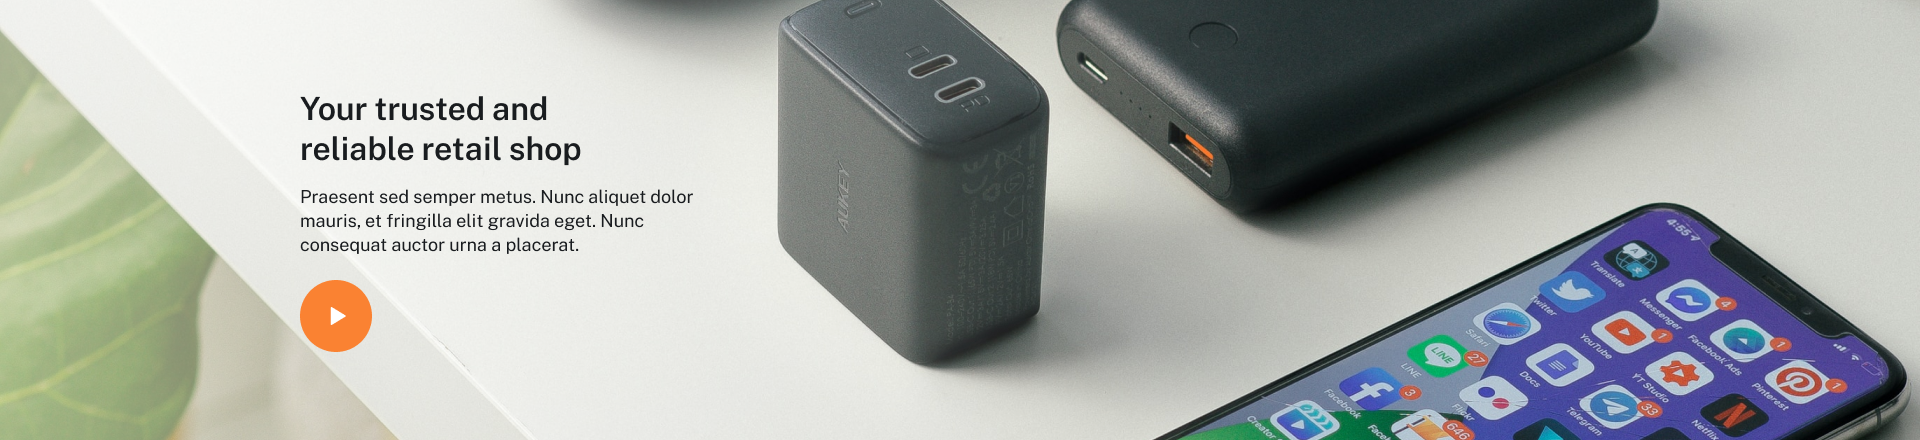
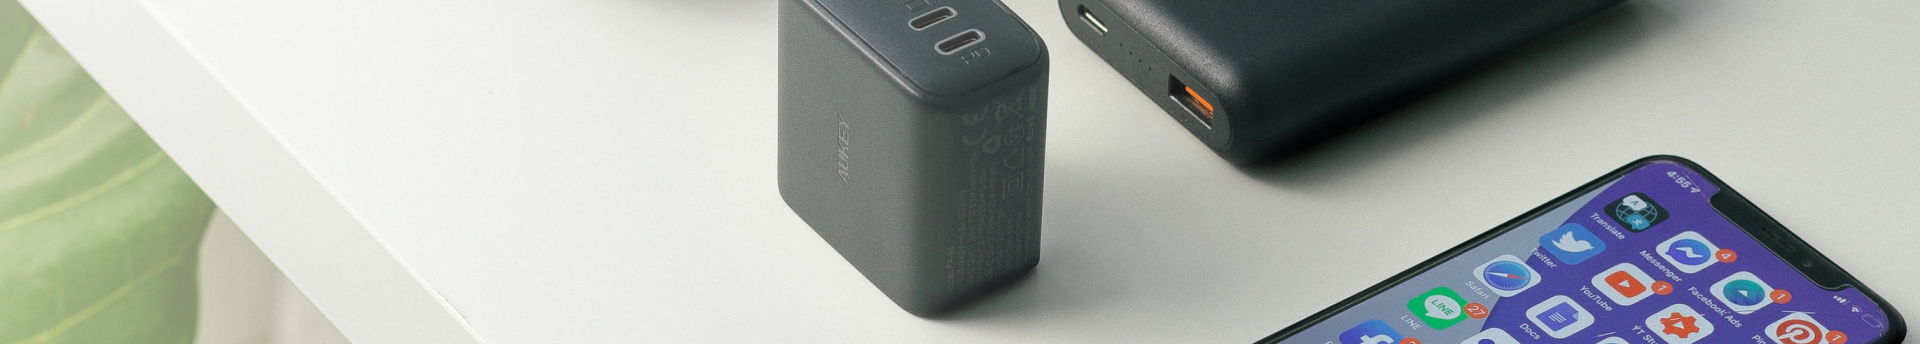
about cta complete

diff --git a/app/scss/pages/about/_banner.scss b/app/scss/pages/about/_banner.scss
@@ -1,0 +1,49 @@
+.banner-secton-02{
+    position: relative;
+    background-repeat: no-repeat;
+    background-size: cover;
+    background-position: center center ;
+    padding: 60px 0;
+    z-index: 1;
+    @media (min-width:575px) {
+        padding: 88px 0;
+    }
+    &::after{
+        @media (max-width:768px) {
+            position: absolute;
+            top: 0;
+            left: 0;
+            content: "";
+            width: 100%;
+            height: 100%;
+            background: rgba(255, 255, 255,.7);
+            z-index: -1;
+        }
+    }
+    .section-title{
+        .title{
+            margin-bottom: 16px;
+            font-weight: 600;
+            font-size: 32px;
+            line-height: 40px;
+            color: var(--bs-gray-900);
+        }
+        .text{
+            font-weight: normal;
+            font-size: 16px;
+            line-height: 1.333333333333333;
+            color: var(--bs-gray-900);
+            @media (min-width:575px) {
+            font-size: 18px;
+            }
+        }
+        .video-button{
+            margin-top: 24px;
+            .video-btn {
+                @media (max-width:768px) {
+                    margin: auto;
+                }
+            }
+        }
+    }
+}

diff --git a/app/scss/helpers/_animations.scss b/app/scss/helpers/_animations.scss
@@ -1,4 +1,39 @@
 @keyframes logoscroll {
-    0% { transform: translateX(0); }
-    100% { transform: translateX(calc(-220px * 7))}
+  0% {
+    transform: translateX(0);
   }
+
+  100% {
+    transform: translateX(calc(-220px * 7))
+  }
+}
+
+@keyframes sonarWave {
+  from {
+    opacity: 0.4;
+  }
+
+  to {
+    transform: scale(2);
+    opacity: 0;
+  }
+}
+
+.sonar-emitter {
+  position: relative;
+  z-index: 1;
+  &::after {
+    position: absolute;
+    top: 0;
+    left: 0;
+    width: 100%;
+    height: 100%;
+    border-radius: 50%;
+    content: "";
+    background-color: var(--bs-primary-500);
+    z-index: -1;
+    pointer-events: none;
+    opacity: 0;
+    animation: sonarWave 2s linear infinite;
+  }
+}

diff --git a/app/about-us.html b/app/about-us.html
@@ -5,6 +5,7 @@
 {% import "components/Header/_deskotop-nav.njk" as DeskNav %}
 {% import "pages/about/_content-1.njk" as ContentSection %}
 {% import "pages/about/_team.njk" as TeamSection %}
+{% import "pages/about/_banner.njk" as BannerSection %}
 {% import "components/Footer/_footer.njk" as FooterSection %}
 {% block main %}
 <!-- Header Section Start -->
@@ -25,6 +26,9 @@
 <!-- Team Section Start -->
 {{TeamSection.render()}}
 <!-- Team Section End -->
+<!-- Banner Section Start -->
+{{BannerSection.render()}}
+<!-- Banner Section End -->
 <!-- Footer Section Start -->
 {{FooterSection.render()}}
 <!-- Footer Section End -->

diff --git a/app/scss/components/_button.scss b/app/scss/components/_button.scss
@@ -233,16 +233,7 @@ button {
 }
 .video-btn{
   display: block;
-  @include square(50px,500px);
+  @include square(72px,500px);
   @include flexAllCenter;
-  background: white;
-}
-.video-btn-two{
-  display: block;
-  @include square(60px,500px);
-  @include flexAllCenter;
-  background: var(--bs-primary);
-  @media (min-width:575px) {
-    @include square(100px,500px);
-  }
+  background: var(--bs-primary-500);
 }

diff --git a/app/scss/pages/about/_index.scss b/app/scss/pages/about/_index.scss
@@ -1,2 +1,3 @@
 @forward "content";
 @forward "team";
+@forward "banner";
